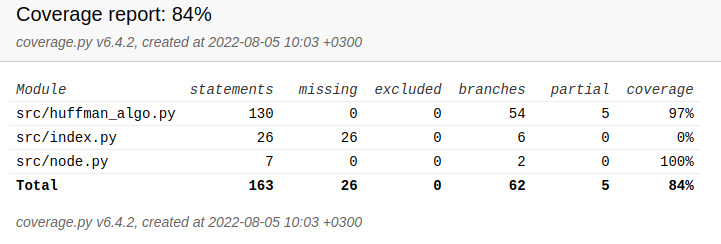
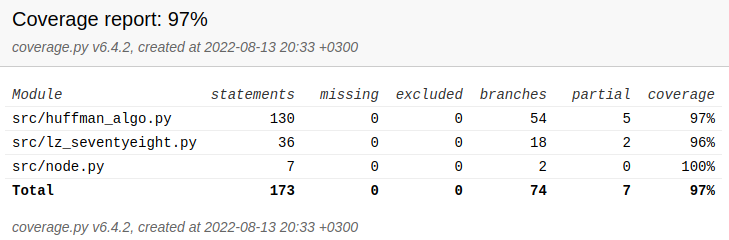
dokumentaation päivitystä

diff --git a/dokumentaatio/toteutusdokumentti.md b/dokumentaatio/toteutusdokumentti.md
@@ -1,0 +1,30 @@
+# Toteutusdokumentti
+
+## Ohjelman yleisrakenne
+
+Ohjelman käyttöliittymästä ja sovelluslogiikasta vastaa index.py, täällä tapahtuu tiedostojen lukeminen ja kirjoittaminen. Huffman pakkaus/purku -algoritmia varten on oma luokka [HuffmanAlgo](https://github.com/ereborinkorppi/tiralabra/blob/main/src/huffman_algo.py) ja Lempel Ziv 78 pakkaus/purku -algoritmia varten on oma luokka [LzSeventyeight](https://github.com/ereborinkorppi/tiralabra/blob/main/src/lz_seventyeight.py). Lisäksi Huffman algoritmin puun toteuttamista varten on luokka [Node](https://github.com/ereborinkorppi/tiralabra/blob/main/src/node.py).
+
+## Saavutetut aika- ja tilavaativuudet
+
+## Suorituskyky vertailu pakkausten osalta
+
+Pakkauskyvyn vertailu on aloitettu muutamilla erilaisilla tiedostoilla: 
+- Pienellä 6 merkin tiedostolla kumpikin algoritmi tuottaa alkuperäistä suuremman pakkauksen. Huffman tiedoston koko on 217% alkuperäisestä ja LZ78 tiedoston koko on 617% alkuperäisestä.
+- 788 tavun kokoisen The 69 Eyes - Feel Berlin lyrics tiedoston kohdalla Huffman tiedoston koko on 74% alkuperäisestä (hieman pienempi) ja LZ78 tiedoston koko on 180% alkuperäisestä.
+- 2 megan vaihtuvasisältöisellä teksti tiedostolla pakkaus alkaa olla jo hyödyksi. Huffman tiedoston koko on 53% alkuperäisestä ja LZ78 tiedoston koko on 33% alkuperäisestä.
+- 2022 tavua sisältävä toisteisen (muut merkin a, paitsi yksi b (huffman bugista johtuen)) tiedoston kohdalla Huffman tiedoston koko on 13% alkuperäisestä ja LZ78 tiedoston koko on 11% alkuperäisestä.
+- Äkkiseltään näyttää siltä, että Huffman pakkauksella saadaan hyötyä myös hieman pienempien tiedostojen kanssa, mutta LZ78 näyttää tehokkaammalta suurien tiedostojen kanssa. 
+- Pakkauskykytestaus jatkuu...
+
+## Työn puutteet ja parannusehdotukset
+
+Työ on vielä kovin kesken, eli puutteita riittää, merkittävimpinä:
+- ei virheiden käsittelyä käyttöliittymälle
+- Huffman algoritmin bugi, ei toimi yhden merkin tiedostoilla nyt
+
+## Lähteet
+
+- https://towardsdatascience.com/huffman-encoding-python-implementation-8448c3654328
+- https://en.wikipedia.org/wiki/Huffman_coding
+- https://en.wikipedia.org/wiki/Lempel%E2%80%93Ziv%E2%80%93Welch
+- https://medium.com/swlh/how-data-compression-works-exploring-lz78-e97e539138

diff --git a/dokumentaatio/testausdokumentti.md b/dokumentaatio/testausdokumentti.md
@@ -6,15 +6,19 @@ Unittestin avulla on suoritettu automatisoidusti ohjelman yksikkö- ja integraat
 
 ### Sovelluslogiikka
 
-index.py -moduulia, joka nyt vastaa sovelluslogiikasta on toistaiseksi testattu vain manuaalisesti erilaisilla tekstitiedostoilla pakkaamista ja niiden pakkausten purkamista. Virheiden mahdollisuutta tai käsittelyä ei ole vielä huomioitu tai testattu.
+index.py -moduulia, joka nyt vastaa käyttöliittymästä ja sovelluslogiikasta on testattu vain manuaalisesti erilaisilla tekstitiedostoilla pakkaamista ja niiden pakkausten purkamista. Virheiden mahdollisuutta tai käsittelyä ei ole vielä huomioitu tai testattu.
 
 ### Huffman pakkauksesta vastaava luokka
 
 Huffman pakkauksesta vastaava luokkaa `HuffmanAlgo` ja sen käyttöön tarvittavaa `Node` -luokkaa testataan yksikkötestein luokalla [TestHuffmanAlgo](https://github.com/ereborinkorppi/tiralabra/blob/main/src/tests/huffman_algo_test.py). Yksikkötestejä voisi tehdä enemmänkin eri välivaiheille vaikka luokan testikattavuus on hyvä.
 
+### Lempel Ziv 78 pakkausesta vastaava luokka
+
+Lempel Ziv 78 pakkauksesta vastaava luokkaa `LzSeventyeight` testataan yksikkötestein luokalla [TestLzSeventyeight](https://github.com/ereborinkorppi/tiralabra/blob/main/src/tests/lz_seventyeight_test.py).
+
 ### Testikattavuus
 
-Testauksen haarautumakattavuus on 84% (käyttöliittymää/sovelluslogiikkaa ei ole testattu yksikkötestein, vaikka se onkin raportissa mukana).
+Testauksen haarautumakattavuus on 97%, vaikka tämä onkin hyvä, niin tarkempaa.
 
 ![](./kuvat/testikattavuus.png)
 

diff --git a/dokumentaatio/maarittelydokumentti.md b/dokumentaatio/maarittelydokumentti.md
@@ -6,7 +6,7 @@ Teen projektini käyttäyn Pythonia, jota olen viime aikoina enemmän käyttäny
 
 ## Tietorakenteet ja algoritmit
 
-Ajattelin toteuttaa työni käyttäen Huffman ja Lempel Ziv algoritmeja. Näitä varten tarvittaneen tietorakenteista ainakin puurakenne (Huffman) ja jonkinlainen lista sanakirjaa varten (Lempel Ziv).
+Ajattelin toteuttaa työni käyttäen Huffman ja Lempel Ziv78 algoritmeja. Näitä varten tarvittaneen tietorakenteista ainakin puurakenne (Huffman) ja jonkinlainen lista sanakirjaa varten (Lempel Ziv 78).
 
 ## Ratkaistava ongelma
 
@@ -18,7 +18,7 @@ Tarkoitus on, että ohjelmalle voi antaa omalta koneeltaan tekstitiedoston syöt
 
 ## Tavoiteltu aika- ja tilavaativuus
 
-Koska tässä tehdään ainakin puu, niin silloin voisi kuvitella O(nlogn) toteutuvan
+Koska tässä tehdään ainakin Huffman puu, niin silloin voisi tavoitella O(nlogn) aikavaativuutta.
 
 ## Lähteet
 
